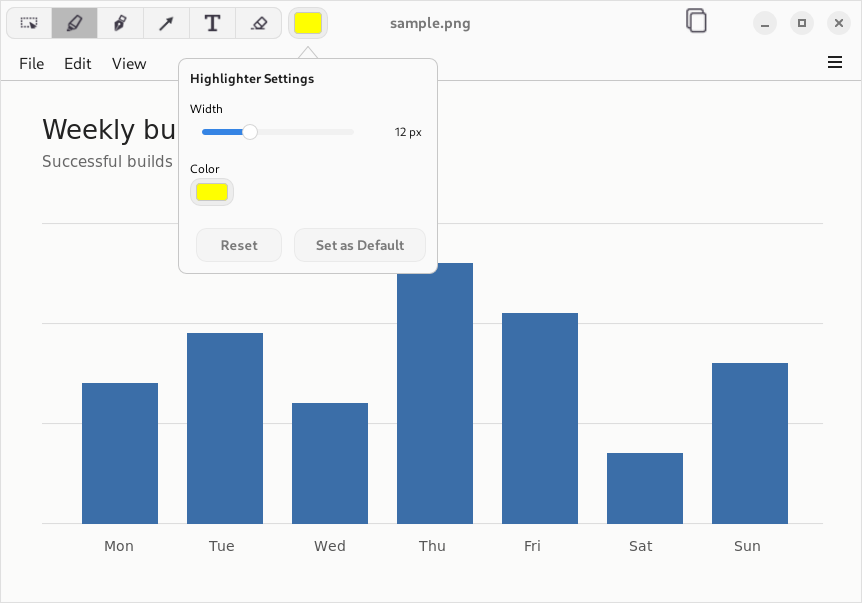
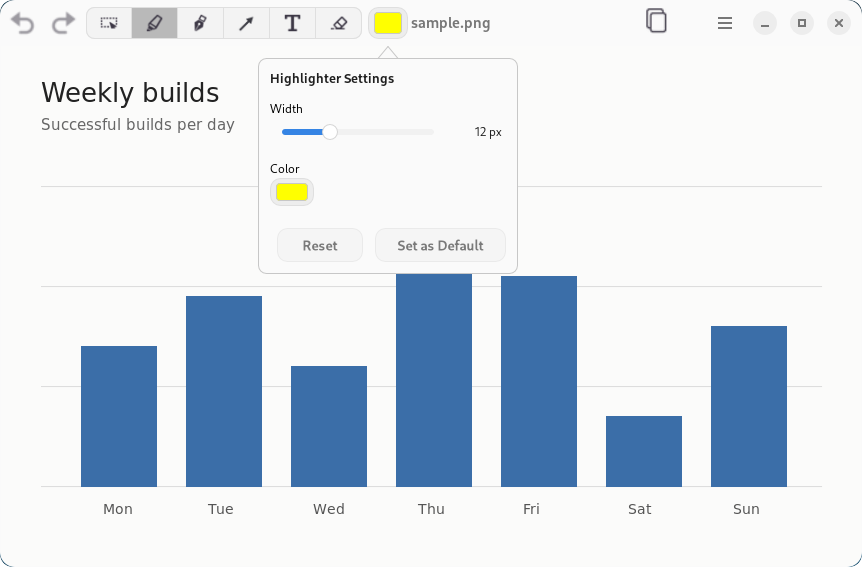
README: Adwaita screenshots without the menu bar row
Tools/screenshots.sh runs the Adwaita side with GnomeThemeMenuStyle =
primary, so the menus are in the header bar's menu and there is no menu
bar row, as in the theme's own README. The theme now draws its own
shadow and rounded corners: the -window crops leave out the shadow (the
window's _GTK_FRAME_EXTENTS) and make the corners transparent rather
than the desktop behind them. The README's two Adwaita images are
retaken.

diff --git a/README.md b/README.md
@@ -35,7 +35,8 @@ window, adding a text annotation:
 ![Adding text under the Adwaita theme](docs/images/adwaita-text.png)
 
 Under the [Adwaita theme](https://github.com/danjboyd/plugins-themes-Adwaita), as on a GNOME
-desktop: the toolbar sits in the header bar.
+desktop: the toolbar sits in the header bar, and the menus are in its ☰ menu
+(`-GnomeThemeMenuStyle primary`), with no menu bar row.
 
 ![Adding text under GNUstep's default theme](docs/images/gnustep-text.png)
 
@@ -47,7 +48,7 @@ A tool's width and colour, from its toolbar button.
 
 To regenerate these images, run `Tools/screenshots.sh` after building the app. It opens the app on a
 private display under both themes, and saves each screen whole and cropped to its window
-(`*-window.png`). The images here are `adwaita-text-toolbar-window.png`,
+(`*-window.png`; under Adwaita without the theme's shadow, with transparent rounded corners). The images here are `adwaita-text-toolbar-window.png`,
 `default-text-toolbar-window.png` and `adwaita-popover-window.png`.
 
 ## Build
